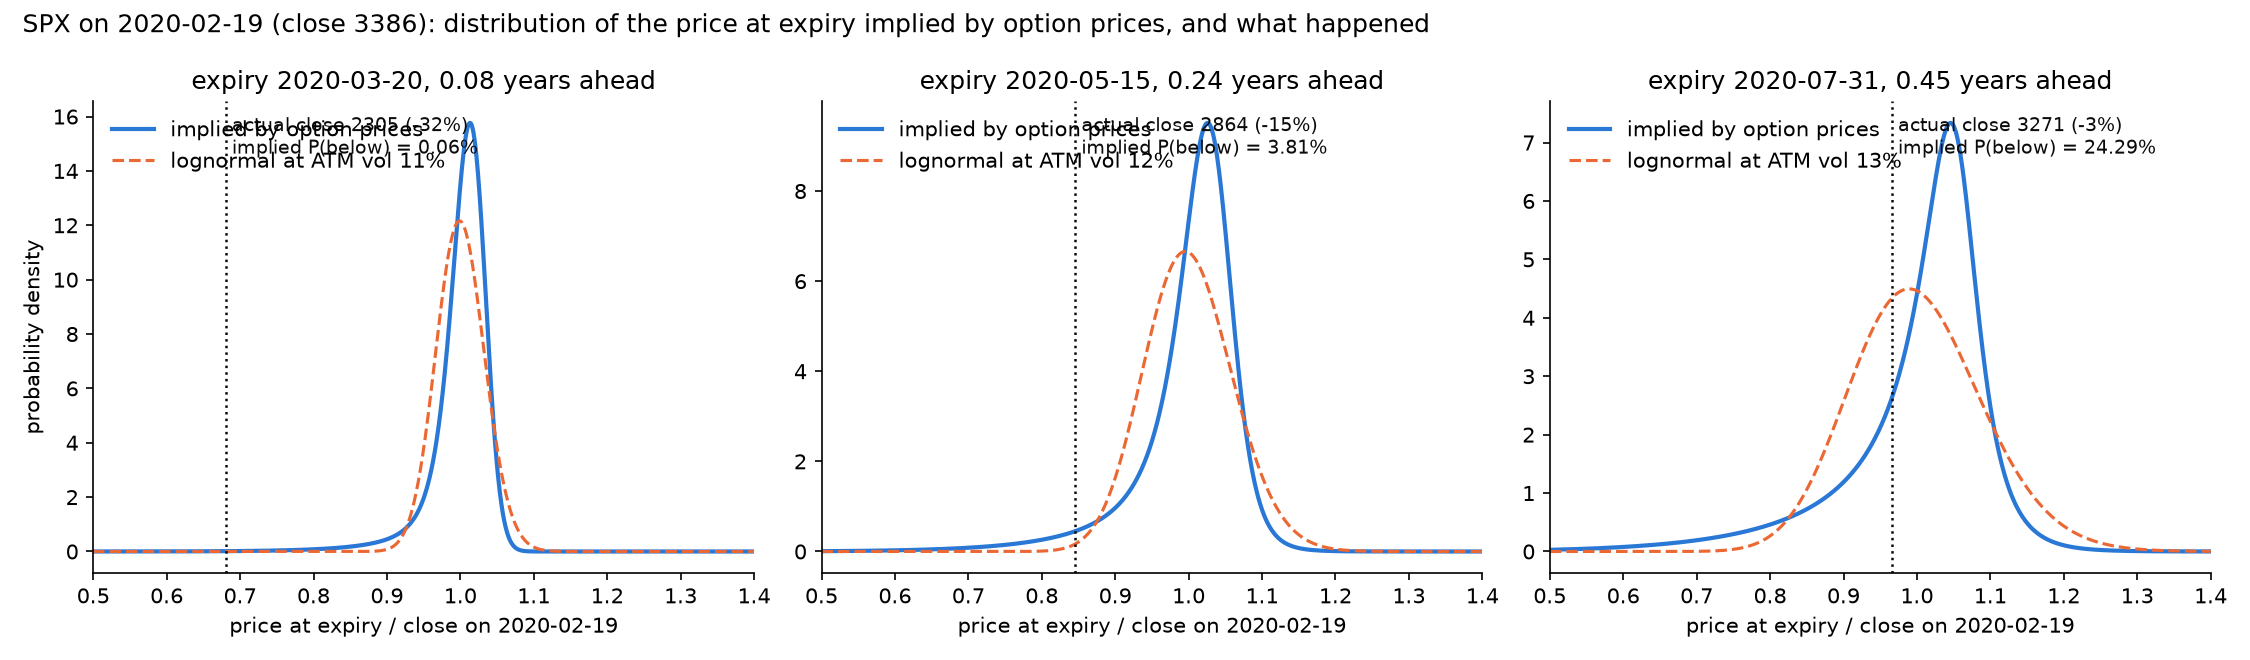
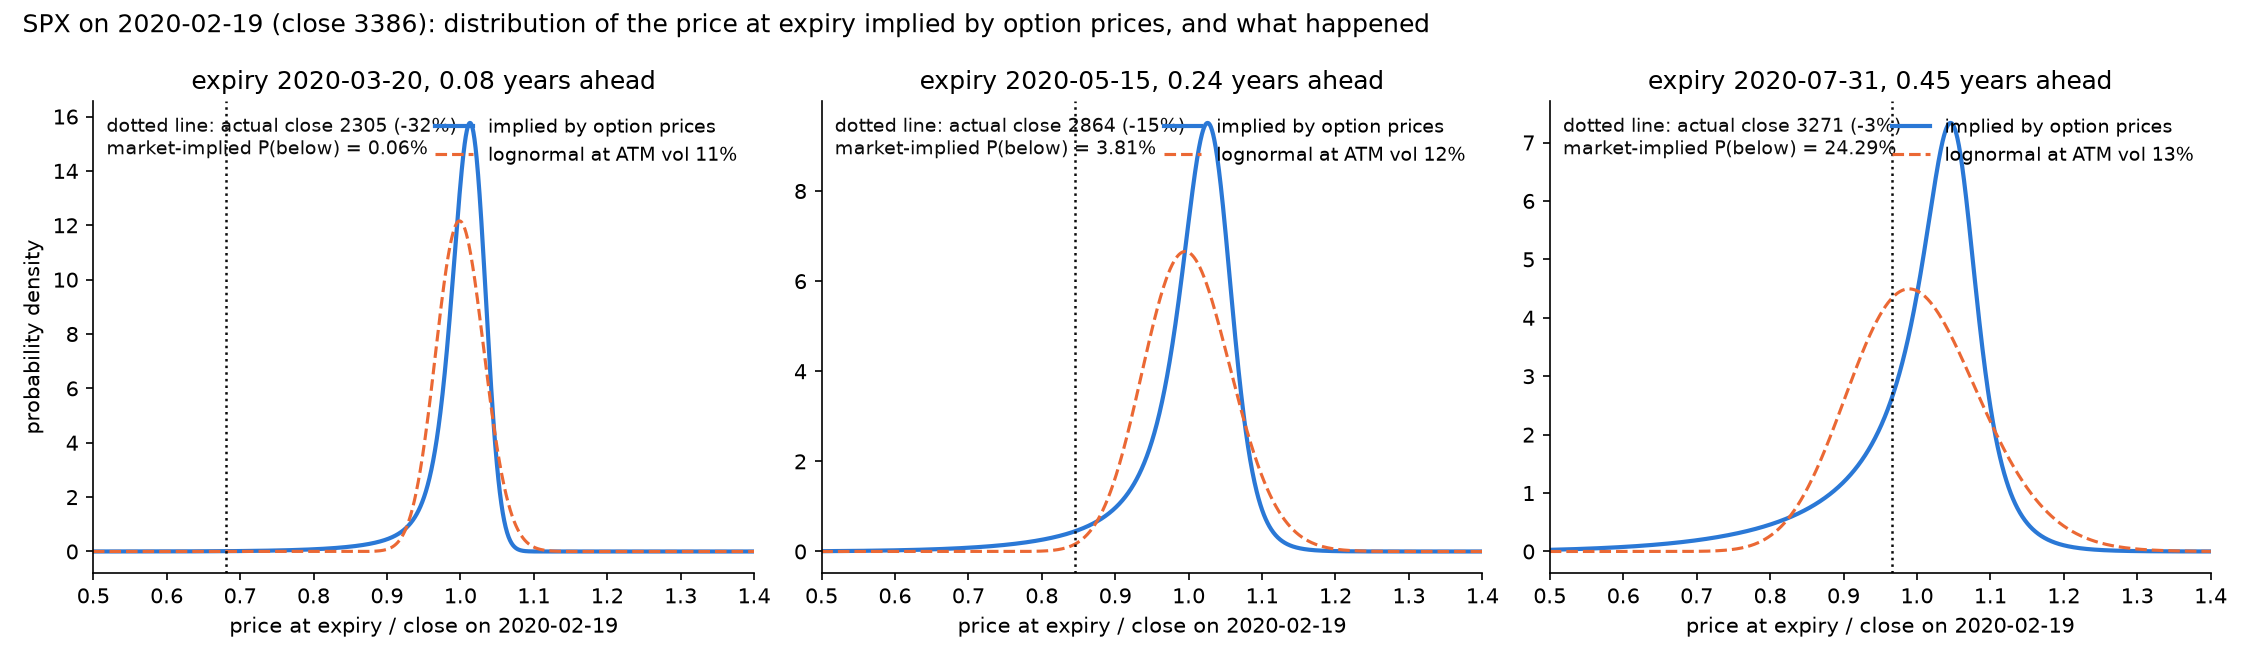
Figure annotation placement

Changed region(s): [[0.6844, 0.1818, 0.9956, 0.2727], [0.0311, 0.1818, 0.3422, 0.2727], [0.3733, 0.1818, 0.6533, 0.2727]]

diff --git a/implied_distribution.py b/implied_distribution.py
@@ -171,11 +171,11 @@ def main(ticker, date):
         ax.plot(K / spot, dens * spot, color="#2a78d6", lw=2, label="implied by option prices")
         ax.plot(K / spot, logn * spot, color="#eb6834", lw=1.5, ls="--", label=f"lognormal at ATM vol {100 * atm:.0f}%")
         ax.axvline(S_T / spot, color="#0b0b0b", lw=1.2, ls=":")
-        ax.text(S_T / spot, ax.get_ylim()[1] * 0.97, f" actual close {S_T:.0f} ({100 * (S_T / spot - 1):+.0f}%)\n implied P({word}) = {100 * prob:.2f}%",
-                va="top", ha="left" if fell else "right", fontsize=9, color="#0b0b0b")
+        ax.text(0.02, 0.97, f"dotted line: actual close {S_T:.0f} ({100 * (S_T / spot - 1):+.0f}%)\nmarket-implied P({word}) = {100 * prob:.2f}%",
+                transform=ax.transAxes, va="top", fontsize=9, color="#0b0b0b")
         ax.set(xlim=(0.5, 1.4), xlabel=f"price at expiry / close on {date}", title=f"expiry {exdate.date()}, {T:.2f} years ahead")
         ax.spines[["top", "right"]].set_visible(False)
-        ax.legend(frameon=False, loc="upper left")
+        ax.legend(frameon=False, loc="upper right", fontsize=9)
     axes[0].set_ylabel("probability density")
     fig.suptitle(f"{ticker} on {date} (close {spot:.0f}): distribution of the price at expiry implied by option prices, and what happened",
                  x=0.01, ha="left")
